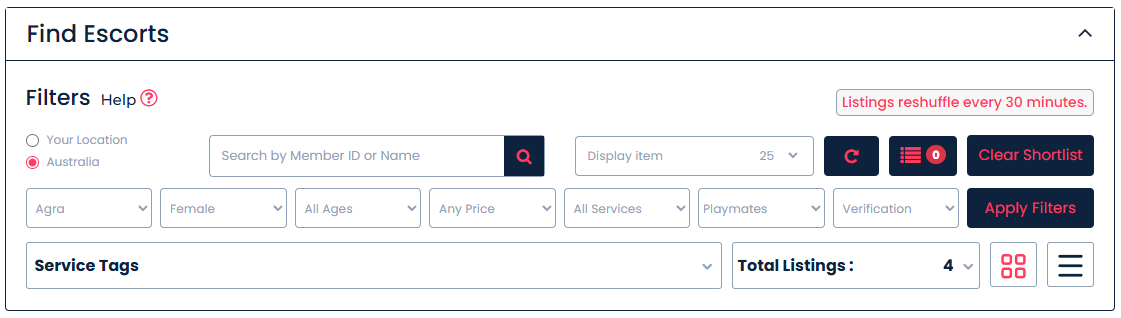
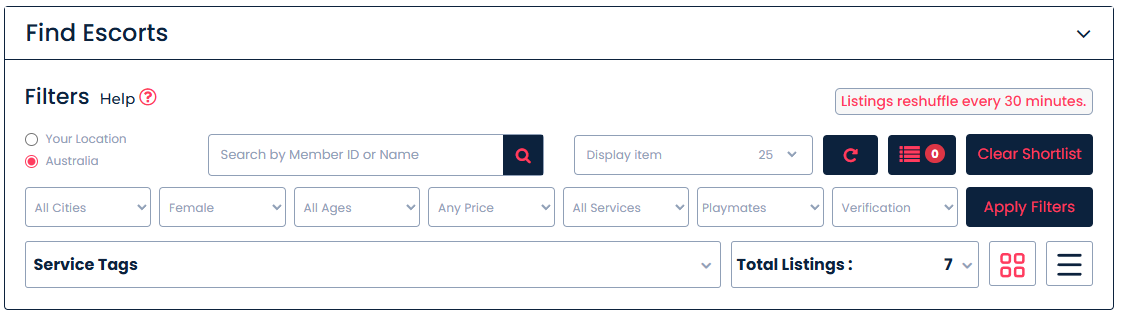
Feedback: update content and position of sidebar menu

diff --git a/public/assets/app/css/style.css b/public/assets/app/css/style.css
@@ -1381,6 +1381,7 @@
             line-height: 1.5;
             letter-spacing: -0.015em;
             margin-bottom: 14px;
+            list-style-type: none;
         }
         
         .modal-body button {
@@ -8911,6 +8912,7 @@ i.fa.fa-heart-o{
         .EC__list_card {
             display: grid;
             grid-template-columns: 300px 1fr 300px;
+            border: 1px solid #ddd;
             gap: 15px;
             align-items: start;
         }

diff --git a/resources/views/partials/admin/sidebar.blade.php b/resources/views/partials/admin/sidebar.blade.php
@@ -621,6 +621,14 @@
                                     src="{{ asset('assets/dashboard/img/menu-icon/list-one_NUM-Blue.png') }}">
                                 <span style="{{ request()->is('*num*') ? 'color: #FF3C5F;' : '' }}">NUM</span>
                             </a>
+                            
+                            <a class="nav-link " href="{{ route('admin.escort.orders') }}">
+                                <img width="16" height="17" viewbox="0 0 16 17" fill="none"
+                                    src="{{ asset('assets/dashboard/img/menu-icon/cart-variant.png') }}">
+                                <span
+                                    style="{{ request()->segment(3) == 'product-order-history' ? 'color: #FF3C5F;' : '' }}">Product
+                                    Orders</span>
+                            </a>
                              <a class="nav-link collapsed" href="{{ route('admin.punterbox') }}">
                                 <img width="16" height="17" viewbox="0 0 16 17" fill="none"
                                     src="{{ asset('assets/dashboard/img/menu-icon/punterbox.png') }}">
@@ -645,13 +653,6 @@
                                     src="{{ asset('assets/dashboard/img/menu-icon/transaction-summary.png') }}">
                                 <span
                                     style="{{ request()->is('*transaction-summary*') ? 'color: #FF3C5F;' : '' }}">Transactions</span>
-                            </a>
-                               <a class="nav-link " href="{{ route('admin.escort.orders') }}">
-                                <img width="16" height="17" viewbox="0 0 16 17" fill="none"
-                                    src="{{ asset('assets/dashboard/img/menu-icon/cart-variant.png') }}">
-                                <span
-                                    style="{{ request()->segment(3) == 'product-order-history' ? 'color: #FF3C5F;' : '' }}">Product
-                                    Orders</span>
                             </a>
                         </div>
                     </div>

diff --git a/resources/views/partials/escort/sidebar.blade.php b/resources/views/partials/escort/sidebar.blade.php
@@ -347,17 +347,18 @@
                     class="collapse
                     @if (in_array(request()->segment(2), ['bank_account', 'my-wallet', 'transaction-summary'])) show @endif"
                     data-parent="#Management">
+                    
+                    <a class="collapse-item {{ request()->segment(2) == 'bank_account' ? 'menu-active' : '' }}"
+                        href="{{ route('escort.bank_account') }}">
+                        <img src="{{ asset('assets/app/img/sales-performance.png') }}">
+                        <span>Bank Account</span>
+                    </a>
 
                     
                     <a class="collapse-item {{ request()->segment(2) == 'my-wallet' ? 'menu-active' : '' }}"
                         href="{{ route('escort.my_wallet') }}">
                         <img src="{{ asset('assets/dashboard/img/menu-icon/credit-card-plus.png') }}">
                         <span>My Wallet</span>
-                    </a>
-                    <a class="collapse-item {{ request()->segment(2) == 'bank_account' ? 'menu-active' : '' }}"
-                        href="{{ route('escort.bank_account') }}">
-                        <img src="{{ asset('assets/app/img/sales-performance.png') }}">
-                        <span>Bank Account</span>
                     </a>
                     <a class="collapse-item {{ request()->segment(2) == 'transaction-summary' ? 'menu-active' : '' }}"
                         href="{{ route('escort.payment.transaction_summary') }}">

diff --git a/resources/views/web/all-filter-profile.blade.php b/resources/views/web/all-filter-profile.blade.php
@@ -787,7 +787,7 @@
                                         <ol class="pl-3">
                                             <li class="help_icons"> <div><span><img src="{{ asset('assets/app/img/verify/verified_icon_dark.png') }}"  alt="verified icon" /></span>  Represents that the Advertiser's Media has been Verified by E4U. </div></li>
                                             <li class="help_icons"> <div><span><img src="{{ asset('assets/app/img/verify/e4u_pending-icon.png') }}"  alt="verified icon" /> </span> Represents that the Advertiser's Media has been submitted for verification and is pending with E4U. </div></li>
-                                            <li class="help_icons"> <div><span><img src="{{ asset('assets/app/img/verify/unverified_icon_dark.png') }}"  alt="verified icon" /> </span> Represents that the Advertiser's Media has not been submitted to E4U for verification. </div></li>
+                                            <li class="help_icons"> <div><span><img src="{{ asset('assets/app/img/verify/unverified_icon_dark.png') }}"  alt="verified icon" /> </span> Represents that the Advertiser's Media has not been submitted to E4U for verification, or has been rejected. </div></li>
                                         </ol>
                                     </div>
                                 </div>

diff --git a/resources/views/web/myShortlist/shortlist.blade.php b/resources/views/web/myShortlist/shortlist.blade.php
@@ -633,7 +633,7 @@
                                         <ol class="pl-3">
                                             <li class="help_icons"> <div><span><img src="{{ asset('assets/app/img/verify/verified_icon_dark.png') }}"  alt="verified icon" /></span>  Represents that the Advertiser's Media has been Verified by E4U. </div></li>
                                             <li class="help_icons"> <div><span><img src="{{ asset('assets/app/img/verify/e4u_pending-icon.png') }}"  alt="verified icon" /> </span> Represents that the Advertiser's Media has been submitted for verification and is pending with E4U. </div></li>
-                                            <li class="help_icons"> <div><span><img src="{{ asset('assets/app/img/verify/unverified_icon_dark.png') }}"  alt="verified icon" /> </span> Represents that the Advertiser's Media has not been submitted to E4U for verification. </div></li>
+                                            <li class="help_icons"> <div><span><img src="{{ asset('assets/app/img/verify/unverified_icon_dark.png') }}"  alt="verified icon" /> </span> Represents that the Advertiser's Media has not been submitted to E4U for verification, or has been rejected. </div></li>
                                         </ol>
                                     </div>
                                 </div>

diff --git a/resources/views/web/mc-shortlist/mc-filter.blade.php b/resources/views/web/mc-shortlist/mc-filter.blade.php
@@ -389,7 +389,7 @@
                                 <ol class="pl-3">
                                     <li class="help_icons"> <div><span><img src="{{ asset('assets/app/img/verify/verified_icon_dark.png') }}"  alt="verified icon" /></span>  Represents that the Advertiser's Media has been Verified by E4U. </div></li>
                                     <li class="help_icons"> <div><span><img src="{{ asset('assets/app/img/verify/e4u_pending-icon.png') }}"  alt="verified icon" /> </span> Represents that the Advertiser's Media has been submitted for verification and is pending with E4U. </div></li>
-                                    <li class="help_icons"> <div><span><img src="{{ asset('assets/app/img/verify/unverified_icon_dark.png') }}"  alt="verified icon" /> </span> Represents that the Advertiser's Media has not been submitted to E4U for verification. </div></li>
+                                    <li class="help_icons"> <div><span><img src="{{ asset('assets/app/img/verify/unverified_icon_dark.png') }}"  alt="verified icon" /> </span> Represents that the Advertiser's Media has not been submitted to E4U for verification, or has been rejected. </div></li>
                                 </ol>
                              </div>
                             </div>

diff --git a/resources/views/web/mc/mc-filter.blade.php b/resources/views/web/mc/mc-filter.blade.php
@@ -398,7 +398,7 @@
                                 <ol class="pl-3">
                                     <li class="help_icons"> <div><span><img src="{{ asset('assets/app/img/verify/verified_icon_dark.png') }}"  alt="verified icon" /></span>  Represents that the Advertiser's Media has been Verified by E4U. </div></li>
                                     <li class="help_icons"> <div><span><img src="{{ asset('assets/app/img/verify/e4u_pending-icon.png') }}"  alt="verified icon" /> </span> Represents that the Advertiser's Media has been submitted for verification and is pending with E4U. </div></li>
-                                    <li class="help_icons"> <div><span><img src="{{ asset('assets/app/img/verify/unverified_icon_dark.png') }}"  alt="verified icon" /> </span> Represents that the Advertiser's Media has not been submitted to E4U for verification. </div></li>
+                                    <li class="help_icons"> <div><span><img src="{{ asset('assets/app/img/verify/unverified_icon_dark.png') }}"  alt="verified icon" /> </span> Represents that the Advertiser's Media has not been submitted to E4U for verification, or has been rejected. </div></li>
                                 </ol>
                              </div>
                          </div>

diff --git a/resources/views/center/my-account/edit-my-account.blade.php b/resources/views/center/my-account/edit-my-account.blade.php
@@ -215,7 +215,7 @@
 
                                                         <div class="col-md-6">
                                                             <div class="form-group">
-                                                                <label for="email">My Agent</label>
+                                                                <label for="email">Our Agent</label>
                                                                 <label type="text" class="form-control form-back"
                                                                     placeholder=" " name="phone"
                                                                     aria-describedby="emailHelp"
